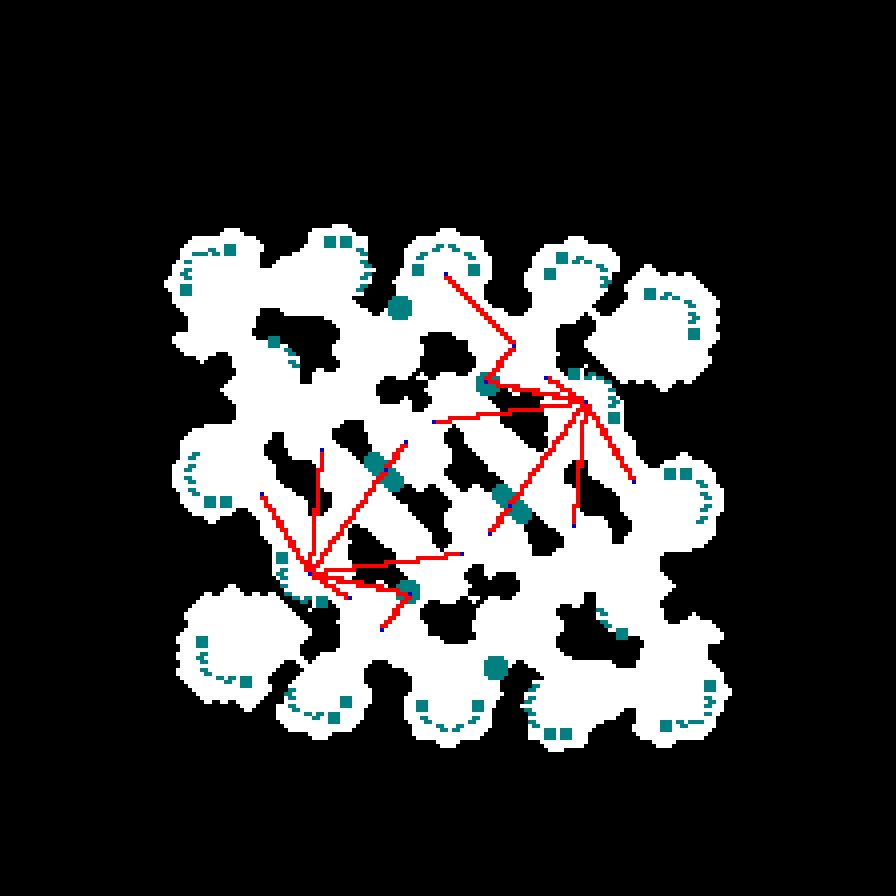
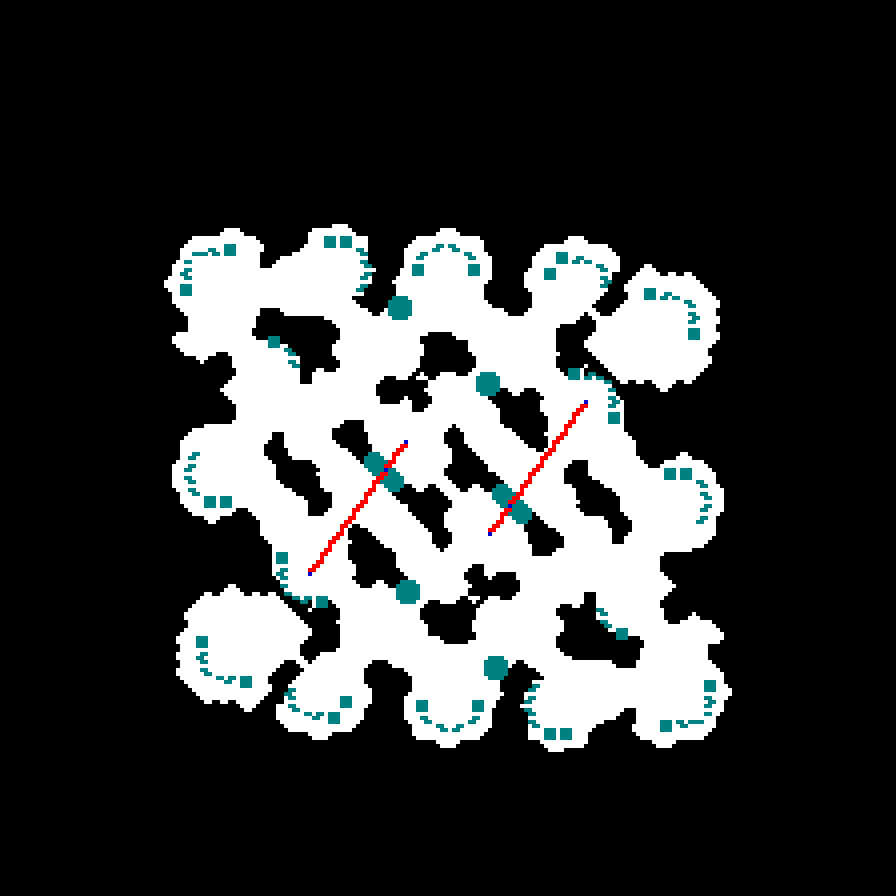
Only consider center to center to determine reachable neighbors.

diff --git a/Sajuuk/MapAnalysis/RegionAnalysis/Region.cs b/Sajuuk/MapAnalysis/RegionAnalysis/Region.cs
@@ -4,6 +4,7 @@ using System.Linq;
 using System.Numerics;
 using System.Text.Json.Serialization;
 using Sajuuk.Algorithms;
+using Sajuuk.ExtensionMethods;
 using Sajuuk.GameSense;
 using Sajuuk.MapAnalysis.ExpandAnalysis;
 using SC2APIProtocol;
@@ -57,13 +58,17 @@ public class Region : IRegion {
         return Neighbors
             .Where(neighbor => !neighbor.Region.IsObstructed)
             .Where(neighbor => {
-                // A neighbor is only reachable if both regions can be merged after removing the obstructed cells
+                // A neighbor is only reachable if both centers can be reached using only the regions cells
                 var cells = Cells.Concat(neighbor.Region.Cells).Except(_terrainTracker.ObstructedCells).ToHashSet();
 
-                // TODO GD This should be inexpensive since regions are small, but the result will only ever change when rocks get destroyed. We should cache the result.
-                var merge = _clustering.FloodFill(cells, cells.First()).ToList();
+                // Regions centers might be obstructed
+                var r1Center = cells.MinBy(cell => cell.DistanceTo(Center));
+                var r2Center = cells.MinBy(cell => cell.DistanceTo(neighbor.Region.Center));
 
-                return cells.Count == merge.Count;
+                // TODO GD This should be inexpensive since regions are small, but the result will only ever change when rocks get destroyed. We should cache the result.
+                var floodFill = _clustering.FloodFill(cells, r1Center).ToHashSet();
+
+                return floodFill.Contains(r2Center);
             })
             .Select(neighbor => neighbor.Region);
     }
